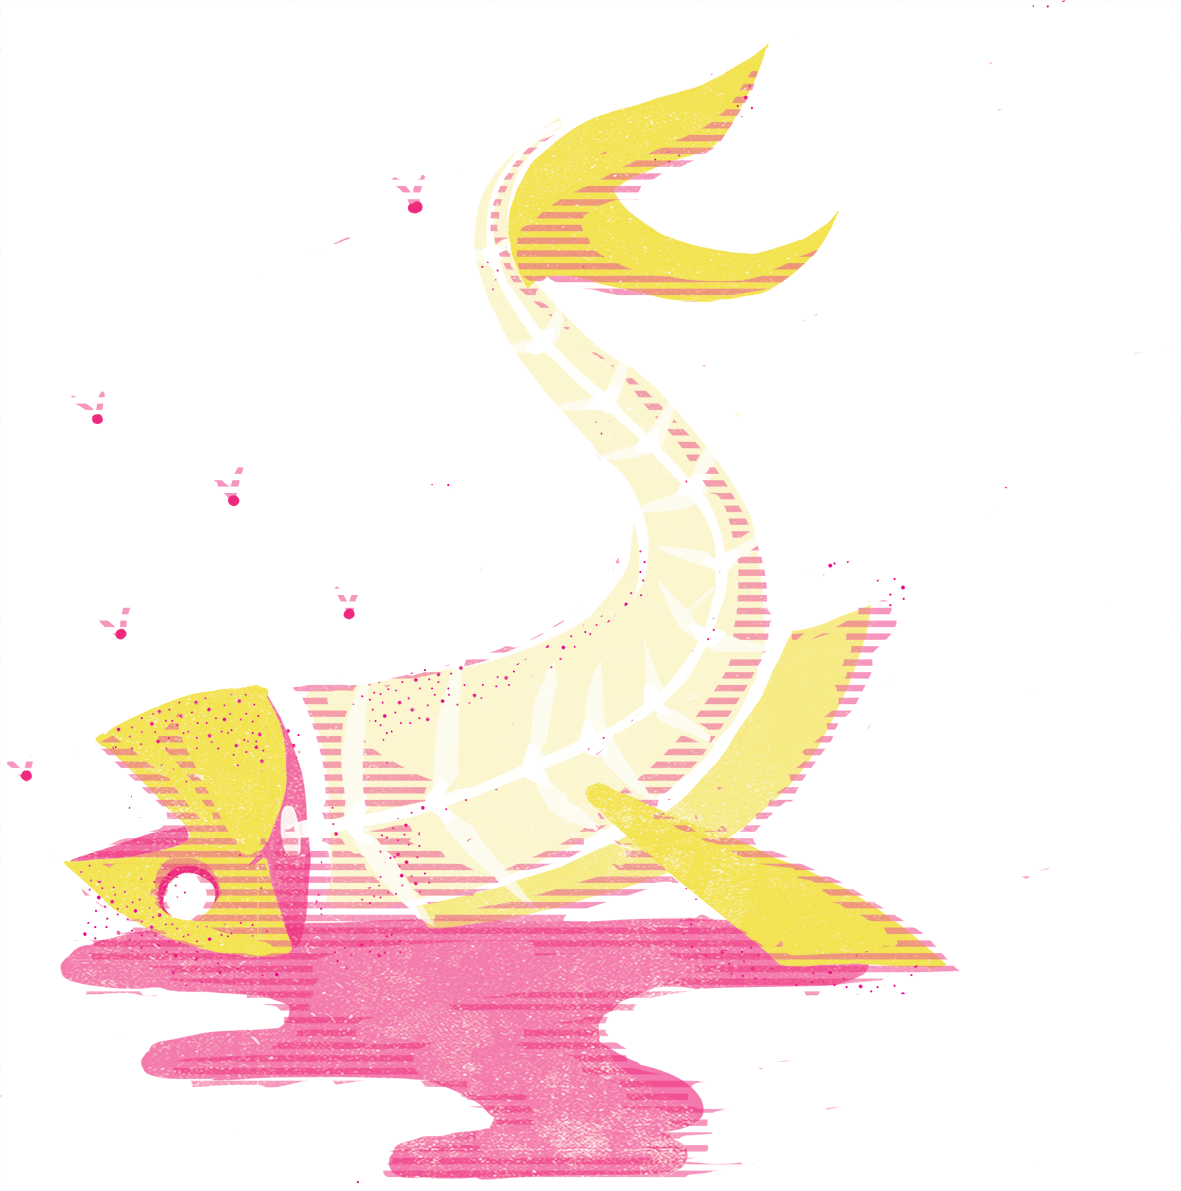
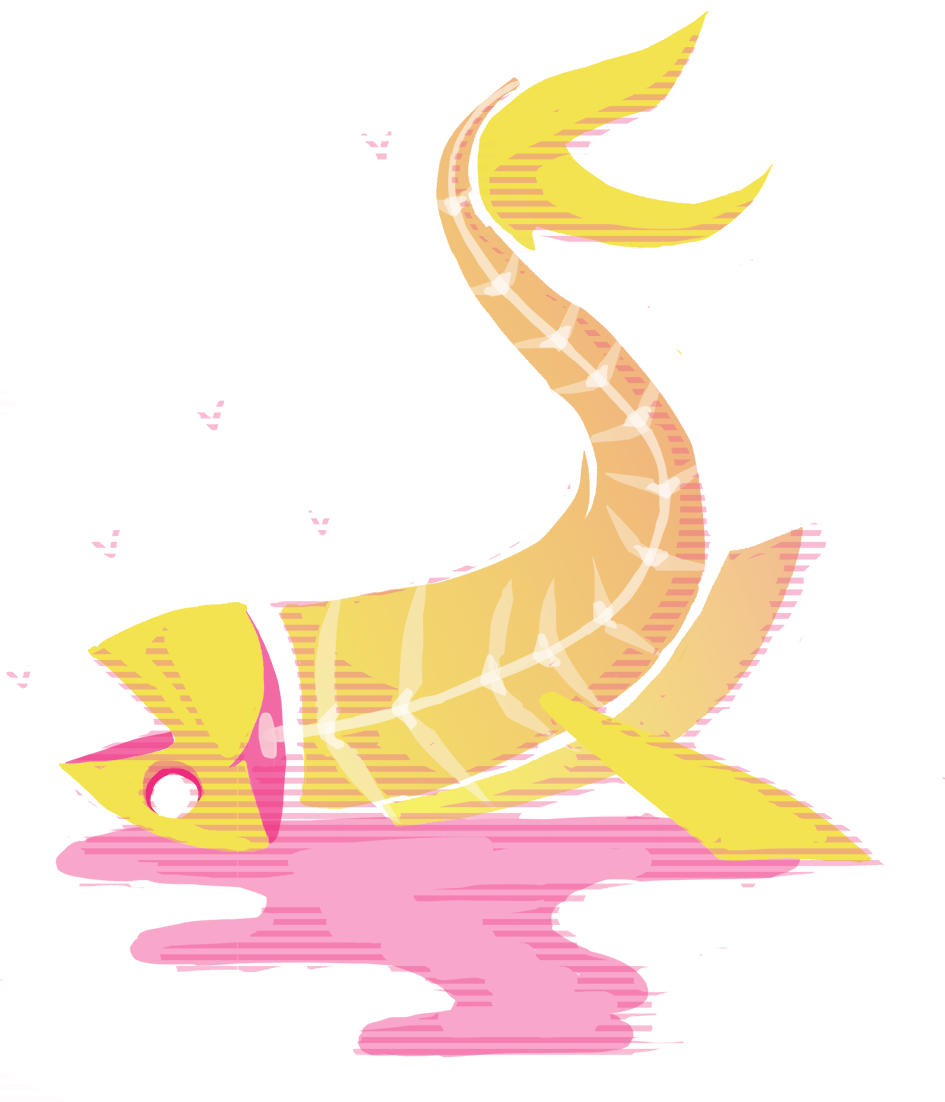
Added new images

diff --git a/client/app/appData/appData.service.js b/client/app/appData/appData.service.js
@@ -154,24 +154,85 @@ angular.module('posterApp').service('appData', function () {
 
 		icons: [
 			{
-				id: 'ok-hands',
-				label: 'OK hands',
-				className: 'icon-pink-hands',
+				id: 'astronaut',
+				label: 'Astronaut',
+				className: 'icon-astronaut',
 				ratio: 0.5,
-				width: 1800,
-				height: 2600,
-				url: '/assets/images/ok-lc.png',
-				bgColor: '#C6DB62'
+				width: 1181,
+				height: 928,
+				url: '/assets/images/astronaut.png'
+			},
+			{
+				id: 'brain',
+				label: 'Brain',
+				className: 'icon-brain',
+				ratio: 0.45,
+				width: 1063,
+				height: 924,
+				url: '/assets/images/brain.png'
+			},
+			{
+				id: 'cactus',
+				label: 'Cactus',
+				className: 'icon-cactus',
+				ratio: 0.4,
+				width: 424,
+				height: 945,
+				url: '/assets/images/cactus.png'
+			},
+			{
+				id: 'confetti',
+				label: 'Confetti',
+				className: 'icon-confetti',
+				ratio: 0.4,
+				width: 945,
+				height: 1362,
+				url: '/assets/images/confetti.png'
+			},
+			{
+				id: 'dance',
+				label: 'Dance',
+				className: 'icon-dance',
+				ratio: 0.4,
+				width: 827,
+				height: 907,
+				url: '/assets/images/dance.png'
+			},
+			{
+				id: 'fish',
+				label: 'Fish',
+				className: 'icon-fish',
+				ratio: 0.5,
+				width: 945,
+				height: 1102,
+				url: '/assets/images/fish.png'
+			},
+			{
+				id: 'fuck',
+				label: 'Fuck',
+				className: 'icon-fuck',
+				ratio: 0.4,
+				width: 827,
+				height: 662,
+				url: '/assets/images/fuck.png'
 			},
 			{
 				id: 'heart',
 				label: 'Heart',
 				className: 'icon-heart',
-				ratio: 0.57,
-				width: 1722,
-				height: 1839,
-				url: '/assets/images/heart-lc.png',
-				bgColor: '#F8DB89'
+				ratio: 0.4,
+				width: 1063,
+				height: 1063,
+				url: '/assets/images/heart-lc.png'
+			},
+			{
+				id: 'israel',
+				label: 'Israel',
+				className: 'icon-israel',
+				ratio: 0.4,
+				width: 739,
+				height: 1181,
+				url: '/assets/images/israel.png'
 			},
 			{
 				id: 'kaki',
@@ -180,68 +241,61 @@ angular.module('posterApp').service('appData', function () {
 				ratio: 0.65,
 				width: 1417,
 				height: 1168,
-				url: '/assets/images/poop.png',
-				bgColor: '#C39A6B'
+				url: '/assets/images/poop.png'
 			},
 			{
-				id: 'fish',
-				label: 'Fish',
-				className: 'icon-fish',
-				ratio: 0.7,
-				width: 1181,
-				height: 1191,
-				url: '/assets/images/fish.png',
-				bgColor: '#C39A6B'
-			},
-			{
-				id: 'brain',
-				label: 'Brain',
-				className: 'icon-brain',
+				id: 'ok-hands',
+				label: 'OK hands',
+				className: 'icon-pink-hands',
 				ratio: 0.5,
-				width: 1063,
-				height: 924,
-				url: '/assets/images/brain.png',
-				bgColor: '#C39A6B'
-			},
-			{
-				id: 'astronaut',
-				label: 'Astronaut',
-				className: 'icon-astronaut',
-				ratio: 0.5,
-				width: 1181,
-				height: 928,
-				url: '/assets/images/astronaut.png',
-				bgColor: '#C39A6B'
-			},
-			{
-				id: 'scream',
-				label: 'Scream',
-				className: 'icon-scream',
-				ratio: 0.6,
-				width: 1181,
-				height: 1234,
-				url: '/assets/images/scream.png',
-				bgColor: '#C39A6B'
+				width: 757,
+				height: 1181,
+				url: '/assets/images/ok-lc.png'
 			},
 			{
 				id: 'popsicle',
 				label: 'Popsicle',
 				className: 'icon-popsicle',
 				ratio: 0.6,
-				width: 1063,
-				height: 1235,
-				url: '/assets/images/popsicle.png',
-				bgColor: '#C39A6B'
+				width: 945,
+				height: 928,
+				url: '/assets/images/popsicle.png'
 			},
 			{
-				id: 'fist',
-				label: 'Fist',
-				className: 'icon-fist',
-				ratio: 0.8,
-				width: 1417,
-				height: 742,
-				url: '/assets/images/fist.png',
-				bgColor: '#C39A6B'
+				id: 'punch',
+				label: 'Punch',
+				className: 'icon-punch',
+				ratio: 0.6,
+				width: 945,
+				height: 1503,
+				url: '/assets/images/punch.png'
+			},
+			{
+				id: 'rogatka',
+				label: 'Rogatka',
+				className: 'icon-rogatka',
+				ratio: 0.6,
+				width: 945,
+				height: 662,
+				url: '/assets/images/rogatka.png'
+			},
+			{
+				id: 'scream',
+				label: 'Scream',
+				className: 'icon-scream',
+				ratio: 0.6,
+				width: 713,
+				height: 709,
+				url: '/assets/images/scream.png'
+			},
+			{
+				id: 'teeth',
+				label: 'Teeth',
+				className: 'icon-teeth',
+				ratio: 0.6,
+				width: 604,
+				height: 1181,
+				url: '/assets/images/teeth.png'
 			}
 		],
 

diff --git a/client/app/main/main.scss b/client/app/main/main.scss
@@ -399,7 +399,7 @@ $footerImageHeight: 30px;
 		height: $footerImageHeight;
 		align-items: center;
 
-		-webkit-mask-image: url(/assets/images/fist.png);
+		-webkit-mask-image: url(/assets/images/punch.png);
 		-webkit-mask-size: contain;
 		-webkit-mask-repeat: no-repeat;
 		-webkit-mask-position: 50% 50%;
@@ -436,33 +436,55 @@ $footerImageHeight: 30px;
 	background-repeat: no-repeat;
 }
 
-.icon-pink-hands {
-	background-image: url('/assets/images/ok-lc.png');
-}
-.icon-heart {
-	background-image: url('/assets/images/heart-lc.png');
-}
-.icon-kaki {
-	background-image: url('/assets/images/poop.png');
-}
-.icon-fish {
-	background-image: url('/assets/images/fish.png');
+.icon-astronaut {
+	background-image: url('/assets/images/astronaut.png');
 }
 .icon-brain {
 	background-image: url('/assets/images/brain.png');
 }
-.icon-astronaut {
-	background-image: url('/assets/images/astronaut.png');
+.icon-cactus {
+	background-image: url('/assets/images/cactus.png');
 }
-.icon-scream {
-	background-image: url('/assets/images/scream.png');
+.icon-confetti {
+	background-image: url('/assets/images/confetti.png');
+}
+.icon-dance {
+	background-image: url('/assets/images/dance.png');
+}
+.icon-fish {
+	background-image: url('/assets/images/fish.png');
+}
+.icon-fuck {
+	background-image: url('/assets/images/fuck.png');
+}
+.icon-heart {
+	background-image: url('/assets/images/heart-lc.png');
+}
+.icon-israel {
+	background-image: url('/assets/images/israel.png');
+}
+.icon-kaki {
+	background-image: url('/assets/images/poop.png');
+}
+.icon-pink-
+hands {background-image: url('/assets/images/ok-lc.png');
 }
 .icon-popsicle {
 	background-image: url('/assets/images/popsicle.png');
 }
-.icon-fist {
-	background-image: url('/assets/images/fist.png');
+.icon-punch {
+	background-image: url('/assets/images/punch.png');
 }
+.icon-rogatka {
+	background-image: url('/assets/images/rogatka.png');
+}
+.icon-scream {
+	background-image: url('/assets/images/scream.png');
+}
+.icon-teeth {
+	background-image: url('/assets/images/teeth.png');
+}
+
 
 .assets-preloader {
 	opacity: 0;

diff --git a/client/app/main/main.controller.js b/client/app/main/main.controller.js
@@ -58,7 +58,7 @@ angular.module('posterApp').controller('MainCtrl', function (
 			$scope.posts = $scope.posts.concat(data);
 			$scope.isLoadingPosts = false;
 
-			// $scope.onCommentClick($scope.posts[3].comments.data[0]);
+			$scope.onCommentClick($scope.posts[3].comments.data[0]);
 
 			// Select the first comment on the first post that has any comments
 			//
